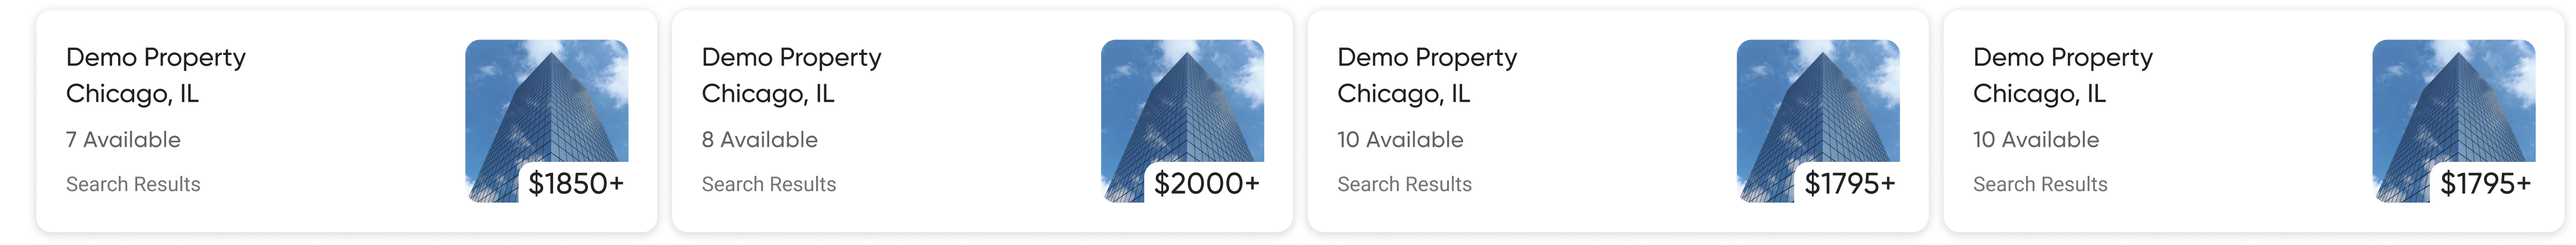
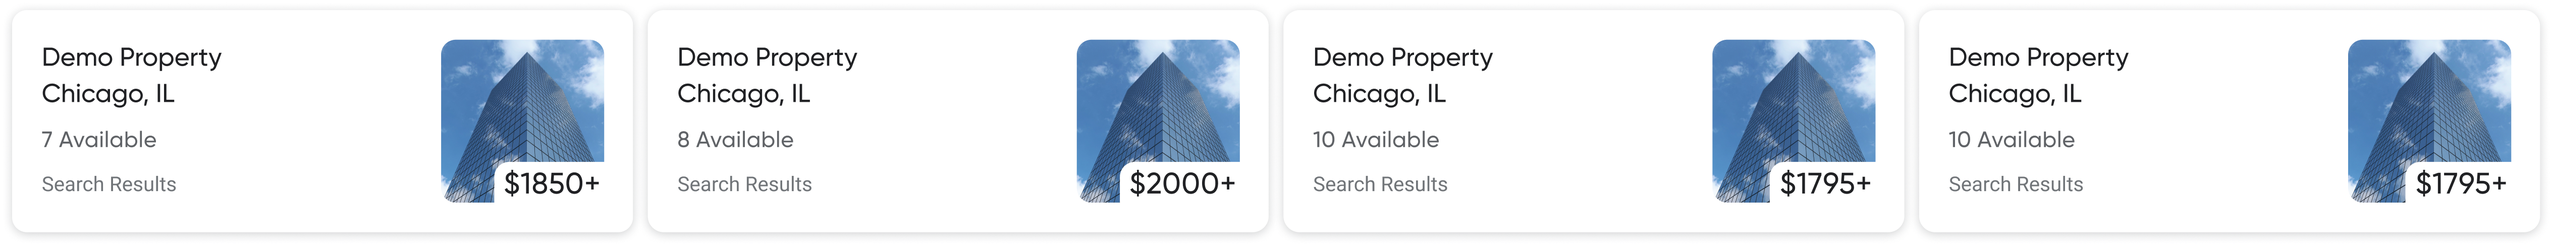
moved a few timelines to matchMedia for a single value. maybe move only the tween , then add it to the timeline in MatchMedia (at a position label)

diff --git a/pages/index.js b/pages/index.js
@@ -206,32 +206,7 @@ export default function Home() {
         opacity: 100
       })
 
-    // desktop - card swipe
-    gsap.to(cards.current, {
-      scrollTrigger: {
-        trigger: rightTextDataIntegrity.current,
-        start: 'top 85%', //
-        end: '+=1',
-        scrub: 2,
-        ease: "power1.inOut",
-        onEnter: () => setMarkerImage(imgUrl("desktop", 2)),
-        onEnterBack: () => setMarkerImage(imgUrl("desktop", 1)),
-      },
-      x: '-312',
-    })
 
-    gsap.to(cards.current, {
-      scrollTrigger: {
-        trigger: rightTextDataIntegrity.current,
-        start: 'top 50%',
-        end: '+=1',
-        scrub: 2,
-        ease: "power1.inOut",
-        onEnter: () => setMarkerImage(imgUrl("desktop", 3)),
-        onEnterBack: () => setMarkerImage(imgUrl("desktop", 2)),
-      },
-      x: '-=312',
-    })
 
     // desktop - calendar
     gsap.timeline({
@@ -265,45 +240,7 @@ export default function Home() {
 
 
 
-    // desktop - property
-    gsap.timeline({
-      scrollTrigger: {
-        trigger: rightTextPersonalizedPage.current,
-        start: 'top bottom',
-        endTrigger: rightTextTourType.current,
-        end: "top bottom+=50%",
-        toggleActions: 'play reverse play reverse',
-        scrub: true,
-        markers: { startColor: "purple", endColor: "purple" }
-      },
-    })
-      .to(leftTextWrapper.current, {
-        onStart: () => setLeftText("Property"),
-        onReverseComplete: () => setLeftText("Filter"),
-      })
-      .from(whiteBgPropIntro.current, {
-        opacity: 0,
-      }, "<")
-      .from(property.current, {
-        y: () => screen.current.getBoundingClientRect().height - status.current.getBoundingClientRect().height,
-        duration: 0.3
-      }, "<50%")
-      .from(propertyBar.current, {
-        y: screen.current.getBoundingClientRect().height,
-        duration: 0.3
-      }, "<5%")
-      .to(property.current, {
-        y: '-=235',
-        ease: "Power1.out",
-        duration: 0.3
-      }, ">30%")
-      .set(propertyHeader.current, {
-        display: 'block',
-        duration: 5
-      }, "<80%")
-      .set(availability.current, {
-        display: 'block'
-      }, ">+500%")
+
 
 
     gsap.timeline({
@@ -351,10 +288,11 @@ export default function Home() {
       scrollTrigger: {
         trigger: rightTextCaptureDetails.current,
         start: 'top bottom',
+        end: '10px',
 
         toggleActions: 'play reverse play reverse',
         // scrub: true,
-        markers: true
+        // markers: true
       },
     })
       .set(confirmDetails.current, {
@@ -404,21 +342,146 @@ export default function Home() {
           },
         })
 
+
+        // desktop - card swipe
+        gsap.to(cards.current, {
+          scrollTrigger: {
+            trigger: rightTextDataIntegrity.current,
+            start: 'top 85%', //
+            end: '+=1',
+            scrub: 2,
+            ease: "power1.inOut",
+            onEnter: () => setMarkerImage(imgUrl("desktop", 2)),
+            onEnterBack: () => setMarkerImage(imgUrl("desktop", 1)),
+          },
+          x: '-312',
+        })
+
+        gsap.to(cards.current, {
+          scrollTrigger: {
+            trigger: rightTextDataIntegrity.current,
+            start: 'top 50%',
+            end: '+=1',
+            scrub: 2,
+            ease: "power1.inOut",
+            onEnter: () => setMarkerImage(imgUrl("desktop", 3)),
+            onEnterBack: () => setMarkerImage(imgUrl("desktop", 2)),
+          },
+          x: '-=312',
+        })
+
+
+        // desktop - property
+        gsap.timeline({
+          scrollTrigger: {
+            trigger: rightTextPersonalizedPage.current,
+            start: 'top bottom',
+            endTrigger: rightTextTourType.current,
+            end: "top bottom+=50%",
+            toggleActions: 'play reverse play reverse',
+            scrub: true,
+            // markers: { startColor: "purple", endColor: "purple" }
+          },
+        })
+          .to(leftTextWrapper.current, {
+            onStart: () => setLeftText("Property"),
+            onReverseComplete: () => setLeftText("Filter"),
+          })
+          .from(whiteBgPropIntro.current, {
+            opacity: 0,
+          }, "<")
+          .from(property.current, {
+            y: () => screen.current.getBoundingClientRect().height - status.current.getBoundingClientRect().height,
+            duration: 0.3
+          }, "<50%")
+          .from(propertyBar.current, {
+            y: screen.current.getBoundingClientRect().height,
+            duration: 0.3
+          }, "<5%")
+          .to(property.current, {
+            y: '-=235',
+            ease: "Power1.out",
+            duration: 0.3
+          }, ">30%")
+          .set(propertyHeader.current, {
+            display: 'block',
+            duration: 5
+          }, "<80%")
+          .set(availability.current, {
+            display: 'block'
+          }, ">+500%")
+
       },
 
       // Mobile
       "(max-width: 799px)": function () {
 
-        gsap.to(headerSubText.current, {
+        // desktop - card swipe
+        gsap.to(cards.current, {
           scrollTrigger: {
-            trigger: headerSubText.current,
-            start: "top 15%",
-            // markers: true,
-            // onEnter: scrollToMain,
-            // onLeaveBack: scrollToTop
-          }
-
+            trigger: rightTextDataIntegrity.current,
+            start: 'top 85%', //
+            end: '+=1',
+            scrub: 2,
+            ease: "power1.inOut",
+            onEnter: () => setMarkerImage(imgUrl("desktop", 2)),
+            onEnterBack: () => setMarkerImage(imgUrl("desktop", 1)),
+          },
+          x: '-234',
         })
+
+        gsap.to(cards.current, {
+          scrollTrigger: {
+            trigger: rightTextDataIntegrity.current,
+            start: 'top 50%',
+            end: '+=1',
+            scrub: 2,
+            ease: "power1.inOut",
+            onEnter: () => setMarkerImage(imgUrl("desktop", 3)),
+            onEnterBack: () => setMarkerImage(imgUrl("desktop", 2)),
+          },
+          x: '-=234',
+        })
+
+
+        gsap.timeline({
+          scrollTrigger: {
+            trigger: rightTextPersonalizedPage.current,
+            start: 'top bottom',
+            endTrigger: rightTextTourType.current,
+            end: "top bottom+=50%",
+            toggleActions: 'play reverse play reverse',
+            scrub: true,
+            // markers: { startColor: "purple", endColor: "purple" }
+          },
+        })
+          .to(leftTextWrapper.current, {
+            onStart: () => setLeftText("Property"),
+            onReverseComplete: () => setLeftText("Filter"),
+          })
+          .from(whiteBgPropIntro.current, {
+            opacity: 0,
+          }, "<")
+          .from(property.current, {
+            y: () => screen.current.getBoundingClientRect().height - status.current.getBoundingClientRect().height,
+            duration: 0.3
+          }, "<50%")
+          .from(propertyBar.current, {
+            y: screen.current.getBoundingClientRect().height,
+            duration: 0.3
+          }, "<5%")
+          .to(property.current, {
+            y: '-=174',
+            ease: "Power1.out",
+            duration: 0.3
+          }, ">30%")
+          .set(propertyHeader.current, {
+            display: 'block',
+            duration: 5
+          }, "<80%")
+          .set(availability.current, {
+            display: 'block'
+          }, ">+500%")
 
       }
     })
@@ -435,7 +498,6 @@ export default function Home() {
         <title>Resider</title>
 
       </Head>
-
 
 
 
@@ -457,8 +519,6 @@ export default function Home() {
 
 
       <div ref={headerShadow} className='shadow-[0_2px_4px_rgba(60,64,67,0.1)] w-full h-[78px] absolute lg:fixed top-0 z-10 opacity-100 lg:opacity-0' />
-
-
 
 
       <div id='hero-section' ref={heroSection} className='flex flex-col place-items-center text-center'>
@@ -491,9 +551,6 @@ export default function Home() {
             />
           </div>
 
-
-
-
         </div>
 
 
@@ -509,9 +566,6 @@ export default function Home() {
 
 
           <div id="phone" ref={phone} className='grid-in-left lg:grid-in-middle place-self-center min-w-[274px] lg:min-w[370px] grid grid-areas-phone grid-cols-phoneMobile lg:grid-cols-phoneDesktop  grid-rows-phoneMobile lg:grid-rows-phoneDesktop rounded-[42px]  ml-[24px] lg:ml-0 frame-shadow'>
-            {/* row-start-1 row-end-6 col-start-1 col-end-6  */}
-
-
 
             <img id='frame' ref={frame} src="frame-hollow.svg" alt="frame" className=' w-full col-start-2 col-end-5 row-start-2 row-end-4  z-30' />
 
@@ -561,9 +615,9 @@ export default function Home() {
                 className='grid-in-body self-start z-2 w-full ' />
 
 
-              <div id='carousel' ref={carousel} className='grid-in-body justify-items-end self-end z-6 pb-[16px] lg:pb-[20.5px] overflow-x-scroll scrollbar-hide snap-x pt-2 h-28px'>
+              <div id='carousel' ref={carousel} className='grid-in-body justify-items-end self-end z-6 pb-[12.35px] lg:pb-[16.53px] overflow-x-scroll scrollbar-hide snap-x pt-2 h-28px'>
 
-                <img src="/cards-4x.png" ref={cards} alt="cards" className='col-start-1 justify-self-start self-end z-6 min-w-[927.38px] lg:min-w-[1252.31px] overflow-visible' />
+                <img src="/cards-4x.png" ref={cards} alt="cards" className=' pl-[10px] lg:pl-[12px] col-start-1 justify-self-start self-end z-6 min-w-[927.38px] lg:min-w-[1252.31px] overflow-visible' />
 
               </div>
 
